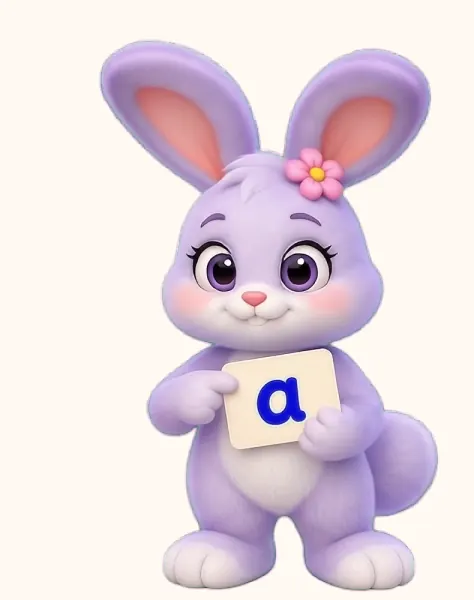
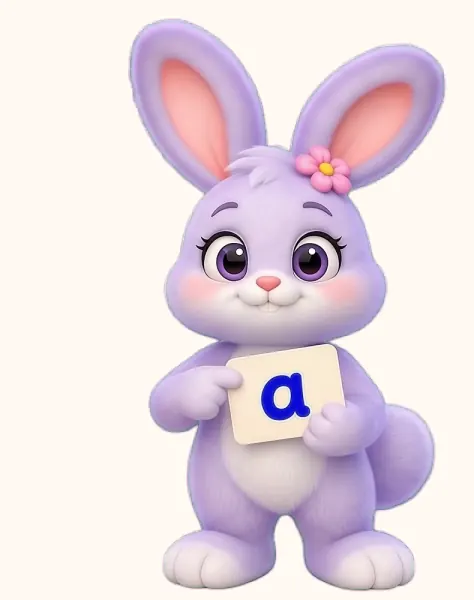
Pin corner Lulu with CSS and use only open-eye head-turn frames
The corner guide is now a separate fixed element: script drives it only
during the hero-to-corner flight, then position: fixed holds it, so fast
scrolling no longer makes it float. Head-turn frames are re-picked from
anywhere in the clip with eyes open (24 frames), so the head no longer
snaps to distant poses; video resume maps frames 0-5 into the loop tail.

Claude-Session: https://claude.ai/code/session_016bVaig1H6c4J4XuGwyBkQ1

diff --git a/landing/artifact.html b/landing/artifact.html
@@ -274,23 +274,23 @@ footer.site .fine { grid-column: 1 / -1; font-size: 0.85rem; color: #D9CCE6; bor
 .lulu > img { opacity: 0; }
 /* фон кадрів трохи світліший за сторінку в деяких браузерах; darken лишає видимим лише саму Lulu */
 .lulu { mix-blend-mode: darken; }
-.lulu.away { mix-blend-mode: normal; }   /* у куточку кадри з прозорим фоном */
 .lulu.turning > video { opacity: 0; }
 
 /* Lulu-провідник: на широкому екрані з першого екрана переїжджає в праву колонку
    і супроводжує сторінку, показуючи лапкою на блок, про який зараз мова. */
-.stage .lulu { z-index: 15; transform-origin: 0 0; will-change: transform; }   /* нижче за шапку (z-index 20) */
-.lulu .point { position: absolute; inset: 0; display: none; pointer-events: none; }
-.lulu .point img { position: absolute; inset: 0; width: 100%; height: 100%; opacity: 0; }
-.lulu.pointing .point { display: block; }
-.lulu.pointing > img, .lulu.pointing > video { visibility: hidden; }
-.lulu.away { pointer-events: none; }
-.say { position: fixed; z-index: 26; left: 0; top: 0; max-width: 230px; margin: 0; pointer-events: none; background: var(--plum); color: var(--milk); box-shadow: 0 0 0 2px var(--milk); font-weight: 800; font-size: .92rem; line-height: 1.3; padding: 10px 14px; border-radius: 14px; opacity: 0; transition: opacity .25s; }
+.stage .lulu.gone { visibility: hidden; }
+/* Lulu-провідник: окремий елемент. Під час перельоту його веде скрипт, у куточку тримає сам браузер (position: fixed) */
+.lulu-guide { position: fixed; left: 0; top: 0; z-index: 15; aspect-ratio: 474 / 600; pointer-events: none; display: none; transform-origin: 0 0; }
+.lulu-guide.on { display: block; }
+.lulu-guide.corner { left: auto; top: auto; right: 20px; bottom: 20px; width: 180px !important; transform: none !important; transition: translate .4s ease; }
+body.docked .lulu-guide.corner { translate: 0 calc(100% + 40px); }
+.lulu-guide img { position: absolute; inset: 0; width: 100%; height: 100%; opacity: 0; }
+.say { position: fixed; z-index: 26; right: 20px; bottom: 234px; max-width: 230px; margin: 0; pointer-events: none; background: var(--plum); color: var(--milk); box-shadow: 0 0 0 2px var(--milk); font-weight: 800; font-size: .92rem; line-height: 1.3; padding: 10px 14px; border-radius: 14px; opacity: 0; transition: opacity .25s; }
 .say.show { opacity: 1; }
 .say::after { content: ""; position: absolute; right: 64px; bottom: -8px; border: 8px solid transparent; border-bottom: 0; border-top-color: var(--plum); }
 .dock { position: fixed; z-index: 16; right: 20px; bottom: 20px; width: 56px; height: 56px; border-radius: 50%; border: 2px solid var(--plum); background: var(--milk); box-shadow: 0 6px 18px rgba(48,32,71,.18); display: none; place-items: center; cursor: pointer; padding: 0; }
 .dock img { width: 36px; height: auto; }
-.hide-lulu { position: fixed; z-index: 16; left: 0; top: 0; width: 32px; height: 32px; border-radius: 50%; border: 1.5px solid var(--plum); background: var(--milk); color: var(--plum); font: 800 16px/1 var(--font-body); display: none; place-items: center; cursor: pointer; padding: 0; }
+.hide-lulu { position: fixed; z-index: 16; right: 14px; bottom: 206px; width: 32px; height: 32px; border-radius: 50%; border: 1.5px solid var(--plum); background: var(--milk); color: var(--plum); font: 800 16px/1 var(--font-body); display: none; place-items: center; cursor: pointer; padding: 0; }
 body.docked .dock, body.cornered .hide-lulu { display: grid; }
 body.docked .hide-lulu { display: none; }
 [data-point].pointed { outline: 3px dashed var(--orange); outline-offset: 8px; border-radius: 12px; transition: outline-color .3s; }
@@ -725,9 +725,9 @@ body.docked .hide-lulu { display: none; }
      Кадри повороту вирізані з того самого відео, тож перемикання відео ↔ кадр відбувається на однаковій позі.
      ORIG: номер кадру у вихідному відео; YAW: куди дивиться Lulu (від'ємне = ліворуч); REST: очі відкриті.
      LOOP_YAW: поза на кожному кадрі відео-повтору (повтор починається з 6-го кадру вихідного відео, 24 к/с). */
-  const ORIG = [27, 36, 37, 38, 39, 40, 41, 42, 43, 45, 47, 51, 58, 77, 78, 79, 80, 81, 82, 83, 84, 85, 86, 88, 90, 93];
-  const YAW = [-94, -88, -83, -72, -58, -45, -34, -25, -22, -18, -14, -12, -9, -4, 1, 8, 20, 33, 47, 59, 68, 74, 78, 82, 86, 89];
-  const REST = [1, 1, 1, 1, 0, 0, 0, 0, 1, 1, 1, 1, 1, 0, 0, 0, 0, 0, 0, 1, 1, 1, 1, 1, 1, 1];
+  const ORIG = [27, 9, 8, 7, 6, 5, 4, 46, 48, 52, 58, 76, 120, 118, 117, 116, 115, 108, 84, 85, 86, 88, 90, 94];
+  const YAW = [-94, -65, -54, -42, -32, -24, -19, -16, -13, -11, -9, -7, 5, 9, 12, 14, 17, 63, 68, 74, 78, 82, 86, 90];
+  const REST = [1, 1, 1, 1, 1, 1, 1, 1, 1, 1, 1, 1, 1, 1, 1, 1, 1, 1, 1, 1, 1, 1, 1, 1];
   const LOOP_YAW = [-32, -42, -54, -65, -88, -109, -112, -114, -115, -101, -86, -87, -87, -87, -88, -89, -91, -92, -93, -93, -94, -94, -94, -94, -94, -94, -93, -93, -92, -92, -88, -83, -72, -58, -45, -34, -25, -22, -20, -18, -16, -14, -13, -12, -12, -12, -11, -11, -10, -10, -9, -9, -9, -9, -9, -9, -9, -9, -9, -9, -9, -9, -9, -9, -9, -9, -10, -10, -9, -8, -7, -4, 1, 8, 20, 33, 47, 59, 68, 74, 78, 80, 82, 84, 86, 88, 89, 89, 90, 90, 90, 90, 91, 91, 90, 90, 90, 90, 89, 87, 81, 73, 63, 56, 47, 40, 33, 29, 22, 17, 14, 12, 9, 7, 5, 5, 4, 3, 3, 2, 2, 2, 2, 2, 2, 2, 2, 2, 2, 2, 2, 2, -16, -16, -16, -17, -19, -24];
   const FPS = 24, LOOP_START = 6;
   const Y0 = YAW[ORIG.indexOf(58)], YMIN = YAW[0], YMAX = YAW[YAW.length - 1];   // кадр 58: Lulu дивиться прямо
@@ -765,7 +765,8 @@ body.docked .hide-lulu { display: none; }
     l.stopTurning = () => {    // кадри → відео: продовжуємо відео саме з того кадру, що зараз на екрані
       if (!l.turning || l.returning) return;
       l.returning = true;
-      v.currentTime = (ORIG[l.shown] - LOOP_START + 0.5) / FPS;
+      const o = ORIG[l.shown] >= LOOP_START ? ORIG[l.shown] - LOOP_START : LOOP_YAW.length - LOOP_START + ORIG[l.shown];
+      v.currentTime = (o + 0.5) / FPS;
       v.addEventListener('seeked', () => {
         l.returning = false;
         if (!l.wantVideo) return;
@@ -796,8 +797,9 @@ body.docked .hide-lulu { display: none; }
   /* Жест лапкою: 37 кадрів з відео на зеленому фоні. 0 = спокій, 0…20 піднімає лапку, 20…36 тримає (туди-назад). */
   const RAISE = 20, LAST = 36, PFPS = 12;
   const pointBox = document.createElement('div');
-  pointBox.className = 'point';
-  luluEl.append(pointBox);
+  pointBox.className = 'lulu-guide';
+  pointBox.setAttribute('aria-hidden', 'true');
+  document.body.append(pointBox);
   let pimgs = null, pshown = -1;
   function loadPoint() {
     if (pimgs) return;
@@ -897,35 +899,36 @@ body.docked .hide-lulu { display: none; }
       p = clamp((hb + 40 - sr.top) / (sr.height * 0.55), 0, 1);
     }
     travel = p;
-    if (p === 0) {
+    const guideOn = pointBox.classList.contains('on');
+    if (p === 0 || (p < 0.1 && guideOn && gesture === 'rest')) {
       // перший екран: Lulu на своєму місці, крутить головою
-      if (luluEl.style.transform) { luluEl.style.transform = ''; luluEl.classList.remove('pointing', 'away'); document.body.classList.remove('cornered', 'docked'); hideTip(); gesture = 'rest'; gFrame = 0; }
-      step(hero, dragX === null ? aimAt(stage) : hero.target, !idle || dragX !== null);
+      if (guideOn) { pointBox.classList.remove('on', 'corner'); luluEl.classList.remove('gone'); document.body.classList.remove('cornered', 'docked'); hideTip(); gesture = 'rest'; gFrame = 0; showPoint(0); }
+      if (p === 0) step(hero, dragX === null ? aimAt(stage) : hero.target, !idle || dragX !== null);
+      else { hero.target = 0; step(hero, 0, true); }
     } else {
       loadPoint();
-      // переліт: Lulu дивиться прямо, зменшується й летить у правий нижній куточок
-      hero.target = 0; step(hero, 0, true);
-      const sr = stage.getBoundingClientRect();
-      const W = luluEl.offsetWidth, H = luluEl.offsetHeight;
-      const sx = sr.left + luluEl.offsetLeft, sy = sr.top + luluEl.offsetTop;
-      const k = CORNER_W / W, ch = H * k;
-      const cx = innerWidth - GAP - CORNER_W, cy = innerHeight - GAP - ch + (docked ? ch + 40 : 0);   // сховано: за краєм екрана
-      const e = ease(p);
-      luluEl.style.transform = `translate(${sx + (cx - sx) * e - sx}px, ${sy + (cy - sy) * e - sy}px) scale(${1 + (k - 1) * e})`;
-      luluEl.classList.add('away');
-      // кадр «прямо» з відео повороту → перший кадр жесту (теж прямо, з прозорим фоном)
+      hero.target = 0; step(hero, 0, true);   // перед перельотом Lulu дивиться прямо
       const pointReady = pimgs[0].complete && pimgs[0].naturalWidth > 0;
-      if (p > 0.15 && pointReady && (hero.shown === hero.frontFrame || !hero.ready)) luluEl.classList.add('pointing');
-      if (p < 0.1 && gesture === 'rest') luluEl.classList.remove('pointing');
+      if (!guideOn && p > 0.15 && pointReady && (hero.shown === hero.frontFrame || !hero.ready)) {
+        pointBox.classList.add('on'); luluEl.classList.add('gone');   // кадр «прямо» → такий самий перший кадр жесту
+      }
+      if (pointBox.classList.contains('on')) {
+        if (p < 1) {
+          // переліт з першого екрана в куточок
+          pointBox.classList.remove('corner');
+          const sr = stage.getBoundingClientRect();
+          const W = luluEl.offsetWidth, sx = sr.left + luluEl.offsetLeft, sy = sr.top + luluEl.offsetTop;
+          const k = CORNER_W / W, cx = innerWidth - GAP - CORNER_W, cy = innerHeight - GAP - luluEl.offsetHeight * k;
+          const e = ease(p);
+          pointBox.style.width = W + 'px';
+          pointBox.style.transform = `translate(${sx + (cx - sx) * e}px, ${sy + (cy - sy) * e}px) scale(${1 + (k - 1) * e})`;
+        } else pointBox.classList.add('corner');   // далі її тримає сам браузер, без скрипта
+        gestureStep(now);
+      }
       const inCorner = p >= 1 && !docked;
       document.body.classList.toggle('cornered', inCorner);
       document.body.classList.toggle('docked', p >= 1 && docked);
-      if (inCorner) {
-        checkTips(now);
-        say.style.transform = `translate(${innerWidth - GAP - say.offsetWidth}px, ${cy - say.offsetHeight + ch * 0.06}px)`;
-        $('#hide-lulu').style.transform = `translate(${innerWidth - GAP - 16}px, ${cy + ch * 0.12}px)`;
-      } else if (current) hideTip();
-      if (luluEl.classList.contains('pointing')) gestureStep(now);
+      if (inCorner) checkTips(now); else if (current) hideTip();
     }
     requestAnimationFrame(tick);
   }

diff --git a/landing/index.html b/landing/index.html
@@ -278,23 +278,23 @@ footer.site .fine { grid-column: 1 / -1; font-size: 0.85rem; color: #D9CCE6; bor
 .lulu > img { opacity: 0; }
 /* фон кадрів трохи світліший за сторінку в деяких браузерах; darken лишає видимим лише саму Lulu */
 .lulu { mix-blend-mode: darken; }
-.lulu.away { mix-blend-mode: normal; }   /* у куточку кадри з прозорим фоном */
 .lulu.turning > video { opacity: 0; }
 
 /* Lulu-провідник: на широкому екрані з першого екрана переїжджає в праву колонку
    і супроводжує сторінку, показуючи лапкою на блок, про який зараз мова. */
-.stage .lulu { z-index: 15; transform-origin: 0 0; will-change: transform; }   /* нижче за шапку (z-index 20) */
-.lulu .point { position: absolute; inset: 0; display: none; pointer-events: none; }
-.lulu .point img { position: absolute; inset: 0; width: 100%; height: 100%; opacity: 0; }
-.lulu.pointing .point { display: block; }
-.lulu.pointing > img, .lulu.pointing > video { visibility: hidden; }
-.lulu.away { pointer-events: none; }
-.say { position: fixed; z-index: 26; left: 0; top: 0; max-width: 230px; margin: 0; pointer-events: none; background: var(--plum); color: var(--milk); box-shadow: 0 0 0 2px var(--milk); font-weight: 800; font-size: .92rem; line-height: 1.3; padding: 10px 14px; border-radius: 14px; opacity: 0; transition: opacity .25s; }
+.stage .lulu.gone { visibility: hidden; }
+/* Lulu-провідник: окремий елемент. Під час перельоту його веде скрипт, у куточку тримає сам браузер (position: fixed) */
+.lulu-guide { position: fixed; left: 0; top: 0; z-index: 15; aspect-ratio: 474 / 600; pointer-events: none; display: none; transform-origin: 0 0; }
+.lulu-guide.on { display: block; }
+.lulu-guide.corner { left: auto; top: auto; right: 20px; bottom: 20px; width: 180px !important; transform: none !important; transition: translate .4s ease; }
+body.docked .lulu-guide.corner { translate: 0 calc(100% + 40px); }
+.lulu-guide img { position: absolute; inset: 0; width: 100%; height: 100%; opacity: 0; }
+.say { position: fixed; z-index: 26; right: 20px; bottom: 234px; max-width: 230px; margin: 0; pointer-events: none; background: var(--plum); color: var(--milk); box-shadow: 0 0 0 2px var(--milk); font-weight: 800; font-size: .92rem; line-height: 1.3; padding: 10px 14px; border-radius: 14px; opacity: 0; transition: opacity .25s; }
 .say.show { opacity: 1; }
 .say::after { content: ""; position: absolute; right: 64px; bottom: -8px; border: 8px solid transparent; border-bottom: 0; border-top-color: var(--plum); }
 .dock { position: fixed; z-index: 16; right: 20px; bottom: 20px; width: 56px; height: 56px; border-radius: 50%; border: 2px solid var(--plum); background: var(--milk); box-shadow: 0 6px 18px rgba(48,32,71,.18); display: none; place-items: center; cursor: pointer; padding: 0; }
 .dock img { width: 36px; height: auto; }
-.hide-lulu { position: fixed; z-index: 16; left: 0; top: 0; width: 32px; height: 32px; border-radius: 50%; border: 1.5px solid var(--plum); background: var(--milk); color: var(--plum); font: 800 16px/1 var(--font-body); display: none; place-items: center; cursor: pointer; padding: 0; }
+.hide-lulu { position: fixed; z-index: 16; right: 14px; bottom: 206px; width: 32px; height: 32px; border-radius: 50%; border: 1.5px solid var(--plum); background: var(--milk); color: var(--plum); font: 800 16px/1 var(--font-body); display: none; place-items: center; cursor: pointer; padding: 0; }
 body.docked .dock, body.cornered .hide-lulu { display: grid; }
 body.docked .hide-lulu { display: none; }
 [data-point].pointed { outline: 3px dashed var(--orange); outline-offset: 8px; border-radius: 12px; transition: outline-color .3s; }
@@ -729,9 +729,9 @@ body.docked .hide-lulu { display: none; }
      Кадри повороту вирізані з того самого відео, тож перемикання відео ↔ кадр відбувається на однаковій позі.
      ORIG: номер кадру у вихідному відео; YAW: куди дивиться Lulu (від'ємне = ліворуч); REST: очі відкриті.
      LOOP_YAW: поза на кожному кадрі відео-повтору (повтор починається з 6-го кадру вихідного відео, 24 к/с). */
-  const ORIG = [27, 36, 37, 38, 39, 40, 41, 42, 43, 45, 47, 51, 58, 77, 78, 79, 80, 81, 82, 83, 84, 85, 86, 88, 90, 93];
-  const YAW = [-94, -88, -83, -72, -58, -45, -34, -25, -22, -18, -14, -12, -9, -4, 1, 8, 20, 33, 47, 59, 68, 74, 78, 82, 86, 89];
-  const REST = [1, 1, 1, 1, 0, 0, 0, 0, 1, 1, 1, 1, 1, 0, 0, 0, 0, 0, 0, 1, 1, 1, 1, 1, 1, 1];
+  const ORIG = [27, 9, 8, 7, 6, 5, 4, 46, 48, 52, 58, 76, 120, 118, 117, 116, 115, 108, 84, 85, 86, 88, 90, 94];
+  const YAW = [-94, -65, -54, -42, -32, -24, -19, -16, -13, -11, -9, -7, 5, 9, 12, 14, 17, 63, 68, 74, 78, 82, 86, 90];
+  const REST = [1, 1, 1, 1, 1, 1, 1, 1, 1, 1, 1, 1, 1, 1, 1, 1, 1, 1, 1, 1, 1, 1, 1, 1];
   const LOOP_YAW = [-32, -42, -54, -65, -88, -109, -112, -114, -115, -101, -86, -87, -87, -87, -88, -89, -91, -92, -93, -93, -94, -94, -94, -94, -94, -94, -93, -93, -92, -92, -88, -83, -72, -58, -45, -34, -25, -22, -20, -18, -16, -14, -13, -12, -12, -12, -11, -11, -10, -10, -9, -9, -9, -9, -9, -9, -9, -9, -9, -9, -9, -9, -9, -9, -9, -9, -10, -10, -9, -8, -7, -4, 1, 8, 20, 33, 47, 59, 68, 74, 78, 80, 82, 84, 86, 88, 89, 89, 90, 90, 90, 90, 91, 91, 90, 90, 90, 90, 89, 87, 81, 73, 63, 56, 47, 40, 33, 29, 22, 17, 14, 12, 9, 7, 5, 5, 4, 3, 3, 2, 2, 2, 2, 2, 2, 2, 2, 2, 2, 2, 2, 2, -16, -16, -16, -17, -19, -24];
   const FPS = 24, LOOP_START = 6;
   const Y0 = YAW[ORIG.indexOf(58)], YMIN = YAW[0], YMAX = YAW[YAW.length - 1];   // кадр 58: Lulu дивиться прямо
@@ -769,7 +769,8 @@ body.docked .hide-lulu { display: none; }
     l.stopTurning = () => {    // кадри → відео: продовжуємо відео саме з того кадру, що зараз на екрані
       if (!l.turning || l.returning) return;
       l.returning = true;
-      v.currentTime = (ORIG[l.shown] - LOOP_START + 0.5) / FPS;
+      const o = ORIG[l.shown] >= LOOP_START ? ORIG[l.shown] - LOOP_START : LOOP_YAW.length - LOOP_START + ORIG[l.shown];
+      v.currentTime = (o + 0.5) / FPS;
       v.addEventListener('seeked', () => {
         l.returning = false;
         if (!l.wantVideo) return;
@@ -800,8 +801,9 @@ body.docked .hide-lulu { display: none; }
   /* Жест лапкою: 37 кадрів з відео на зеленому фоні. 0 = спокій, 0…20 піднімає лапку, 20…36 тримає (туди-назад). */
   const RAISE = 20, LAST = 36, PFPS = 12;
   const pointBox = document.createElement('div');
-  pointBox.className = 'point';
-  luluEl.append(pointBox);
+  pointBox.className = 'lulu-guide';
+  pointBox.setAttribute('aria-hidden', 'true');
+  document.body.append(pointBox);
   let pimgs = null, pshown = -1;
   function loadPoint() {
     if (pimgs) return;
@@ -901,35 +903,36 @@ body.docked .hide-lulu { display: none; }
       p = clamp((hb + 40 - sr.top) / (sr.height * 0.55), 0, 1);
     }
     travel = p;
-    if (p === 0) {
+    const guideOn = pointBox.classList.contains('on');
+    if (p === 0 || (p < 0.1 && guideOn && gesture === 'rest')) {
       // перший екран: Lulu на своєму місці, крутить головою
-      if (luluEl.style.transform) { luluEl.style.transform = ''; luluEl.classList.remove('pointing', 'away'); document.body.classList.remove('cornered', 'docked'); hideTip(); gesture = 'rest'; gFrame = 0; }
-      step(hero, dragX === null ? aimAt(stage) : hero.target, !idle || dragX !== null);
+      if (guideOn) { pointBox.classList.remove('on', 'corner'); luluEl.classList.remove('gone'); document.body.classList.remove('cornered', 'docked'); hideTip(); gesture = 'rest'; gFrame = 0; showPoint(0); }
+      if (p === 0) step(hero, dragX === null ? aimAt(stage) : hero.target, !idle || dragX !== null);
+      else { hero.target = 0; step(hero, 0, true); }
     } else {
       loadPoint();
-      // переліт: Lulu дивиться прямо, зменшується й летить у правий нижній куточок
-      hero.target = 0; step(hero, 0, true);
-      const sr = stage.getBoundingClientRect();
-      const W = luluEl.offsetWidth, H = luluEl.offsetHeight;
-      const sx = sr.left + luluEl.offsetLeft, sy = sr.top + luluEl.offsetTop;
-      const k = CORNER_W / W, ch = H * k;
-      const cx = innerWidth - GAP - CORNER_W, cy = innerHeight - GAP - ch + (docked ? ch + 40 : 0);   // сховано: за краєм екрана
-      const e = ease(p);
-      luluEl.style.transform = `translate(${sx + (cx - sx) * e - sx}px, ${sy + (cy - sy) * e - sy}px) scale(${1 + (k - 1) * e})`;
-      luluEl.classList.add('away');
-      // кадр «прямо» з відео повороту → перший кадр жесту (теж прямо, з прозорим фоном)
+      hero.target = 0; step(hero, 0, true);   // перед перельотом Lulu дивиться прямо
       const pointReady = pimgs[0].complete && pimgs[0].naturalWidth > 0;
-      if (p > 0.15 && pointReady && (hero.shown === hero.frontFrame || !hero.ready)) luluEl.classList.add('pointing');
-      if (p < 0.1 && gesture === 'rest') luluEl.classList.remove('pointing');
+      if (!guideOn && p > 0.15 && pointReady && (hero.shown === hero.frontFrame || !hero.ready)) {
+        pointBox.classList.add('on'); luluEl.classList.add('gone');   // кадр «прямо» → такий самий перший кадр жесту
+      }
+      if (pointBox.classList.contains('on')) {
+        if (p < 1) {
+          // переліт з першого екрана в куточок
+          pointBox.classList.remove('corner');
+          const sr = stage.getBoundingClientRect();
+          const W = luluEl.offsetWidth, sx = sr.left + luluEl.offsetLeft, sy = sr.top + luluEl.offsetTop;
+          const k = CORNER_W / W, cx = innerWidth - GAP - CORNER_W, cy = innerHeight - GAP - luluEl.offsetHeight * k;
+          const e = ease(p);
+          pointBox.style.width = W + 'px';
+          pointBox.style.transform = `translate(${sx + (cx - sx) * e}px, ${sy + (cy - sy) * e}px) scale(${1 + (k - 1) * e})`;
+        } else pointBox.classList.add('corner');   // далі її тримає сам браузер, без скрипта
+        gestureStep(now);
+      }
       const inCorner = p >= 1 && !docked;
       document.body.classList.toggle('cornered', inCorner);
       document.body.classList.toggle('docked', p >= 1 && docked);
-      if (inCorner) {
-        checkTips(now);
-        say.style.transform = `translate(${innerWidth - GAP - say.offsetWidth}px, ${cy - say.offsetHeight + ch * 0.06}px)`;
-        $('#hide-lulu').style.transform = `translate(${innerWidth - GAP - 16}px, ${cy + ch * 0.12}px)`;
-      } else if (current) hideTip();
-      if (luluEl.classList.contains('pointing')) gestureStep(now);
+      if (inCorner) checkTips(now); else if (current) hideTip();
     }
     requestAnimationFrame(tick);
   }
